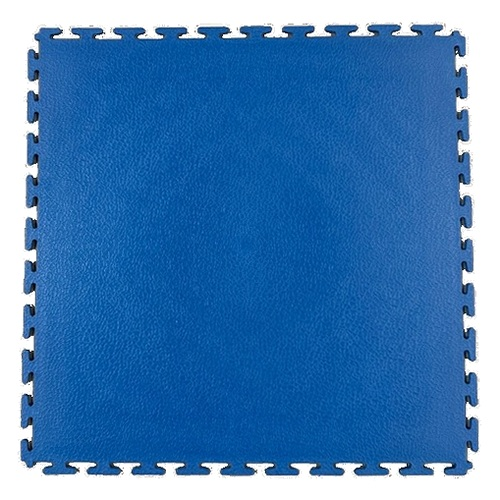
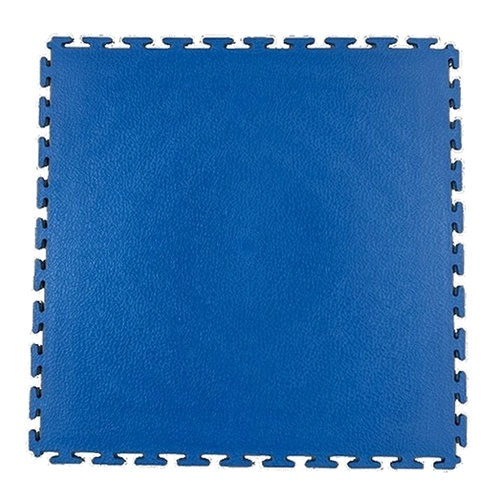
preview: alinear trama (solo rotacion)

diff --git a/calculadora-baldosas/sw.js b/calculadora-baldosas/sw.js
@@ -1,4 +1,4 @@
-const CACHE = 'nexa-v102-rejilla-align';
+const CACHE = 'nexa-v103-trama-align';
 const ASSETS = [
   './',
   './index.html',
